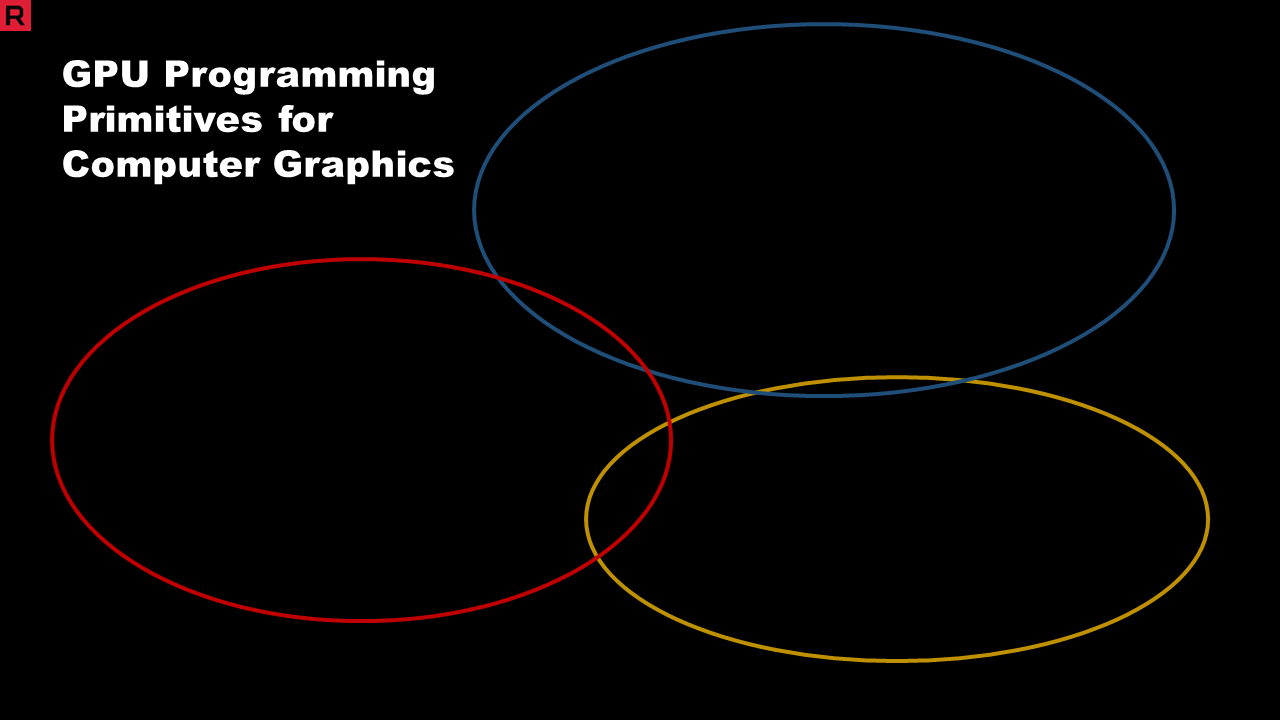
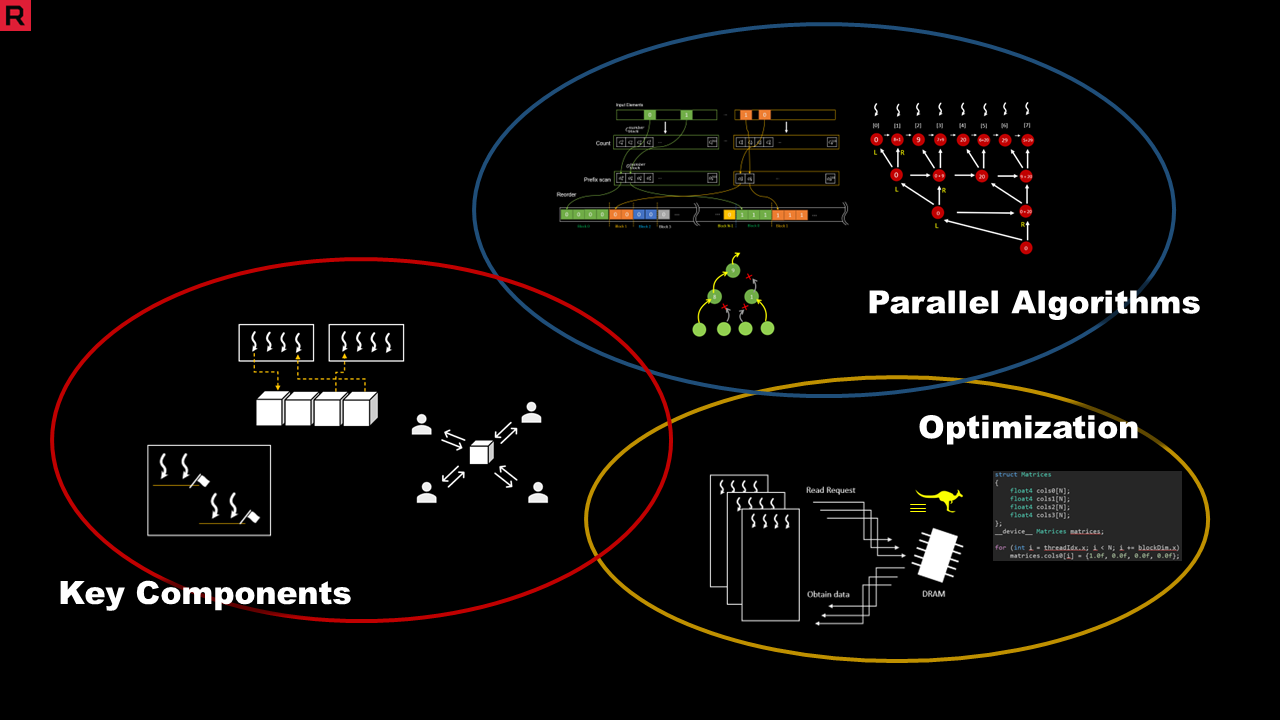
add Attend section / ARR section

diff --git a/layouts/partials/head_custom.html b/layouts/partials/head_custom.html
@@ -28,6 +28,13 @@ Or you can delete these file if you don't need it.
     font-size: 14px;
   }
 }
+
+/* This is for images */
+.box {
+  margin: auto;
+  margin-bottom: 20px;
+  margin-top: 20px;
+}
 </style>
 
 <!-- or you could include some additional css libraries:

diff --git a/content/_index.md b/content/_index.md
@@ -1,7 +1,6 @@
 ## Abstract
-The course introduces programming primitives for parallel algorithms on GPUs for a wide variety of applications in computer graphics. Various parallel algorithms can be decomposed into programming primitives that share similar patterns. This course focuses on studying these programming primitives and their applicability in computer graphics, specifically in the context of massively parallel processing on GPUs. The course begins by establishing a theoretical foundation, followed by practical examples and real-world applications. We explain two pivotal algorithms: parallel reduction and parallel prefix scan in detail, discussing their variants and different implementations. Afterward, we provide a collection of more advanced techniques and tricks applicable across various domains. At the end of the course, we also briefly discuss code optimization.
 
-<!--{{< figure src="sa-course-slides.png" >}} -->
+The course introduces programming primitives for parallel algorithms on GPUs for a wide variety of applications in computer graphics. Various parallel algorithms can be decomposed into programming primitives that share similar patterns. This course focuses on studying these programming primitives and their applicability in computer graphics, specifically in the context of massively parallel processing on GPUs. The course begins by establishing a theoretical foundation, followed by practical examples and real-world applications. We explain two pivotal algorithms: parallel reduction and parallel prefix scan in detail, discussing their variants and different implementations. Afterward, we provide a collection of more advanced techniques and tricks applicable across various domains. At the end of the course, we also briefly discuss code optimization.
 
 ## Course Materials
 - Course notes
@@ -17,6 +16,12 @@ The course introduces programming primitives for parallel algorithms on GPUs for
 - Radix sort
 - Code optimization
 
+{{<figure src="sa-course-slides.png" width="600px" class="no-photoswipe">}}
+
+## Attend the Course at SIGGRAPH Asia 2023
+The course will be held [Thursday 9:00am-11:00am at Meeting Room C4.6, Level 4 (Convention Centre)](https://ssl.linklings.net/conferences/siggraphasia/siggraphasia2023_program/views/by_sub_type.html#sstype105)
+We are looking forward to seeing you at [SIGGRAPH Asia 2023](https://asia.siggraph.org/2023/)!
+
 ## Presenters
 
 ### Daniel Meister
@@ -24,16 +29,6 @@ The course introduces programming primitives for parallel algorithms on GPUs for
 Daniel Meister is a researcher and software engineer at AMD. Before that, he was a postdoctoral researcher at the University of Tokyo under the mentorship of Prof. Toshiya Hachisuka and Prof. Nobuyuki Umetani. He received a Ph.D. degree advised by Prof. Jiri Bittner at the Czech Technical University in Prague. His research interests include real-time ray tracing, acceleration data structures, global illumination, GPGPU, and machine learning for rendering.
 
 ### Atsushi Yoshimura
-<!-- ![Scenario 1: Across columns](/img/Atsushi.png)
-
-{{< gallery caption-effect="fade" >}}
-  {{< figure thumb="-thumb" link="/img/Atsushi.png" >}}
-  {{< figure thumb="-thumb" link="/img/sphere.jpg" caption="Sphere" >}}
-  {{< figure thumb="-thumb" link="/img/triangle.jpg" caption="Triangle" alt="This is a long comment about a triangle" >}}
-{{< /gallery >}} -->
-
-<!-- {{< figure src="/img/Atsushi.png">}} -->
-
 Atsushi Yoshimura is a software engineer and also a researcher at AMD. His career started as a software engineer in the field of installation and art. Although his bachelor's education was welfare taking advantage of computer science, his current interest is toward computer graphics, especially ray-traced global illumination even including deep-learning-based techniques for graphics. Currently, he develops Radeon ProRender and conducts related research.
 
 ### Chih-Chen Kao
@@ -42,3 +37,6 @@ Chih-Chen Kao is a researcher and software engineer at AMD. Before that, he has 
 
 <!-- `beautifulhugo` supports content on your front page. Edit `/content/_index.md` to change what appears here. Delete `/content/_index.md` if you don't want any content here. -->
 
+## Advanced Rendering Research Group
+{{<figure src="ARR.png" width="500px" class="no-photoswipe" link="https://gpuopen.com/advanced-rendering-research/">}}
+The presenters belong [**Advanced Rendering Research Group** (***ARR***)](https://gpuopen.com/advanced-rendering-research/) at [**AMD**](https://www.amd.com/en.html), which is working on research surrounding graphics and rendering. We look at current and future problems relating to CPU and GPU architectures. Please check our [publications](https://gpuopen.com/learn/publications/) if you are interested in.
